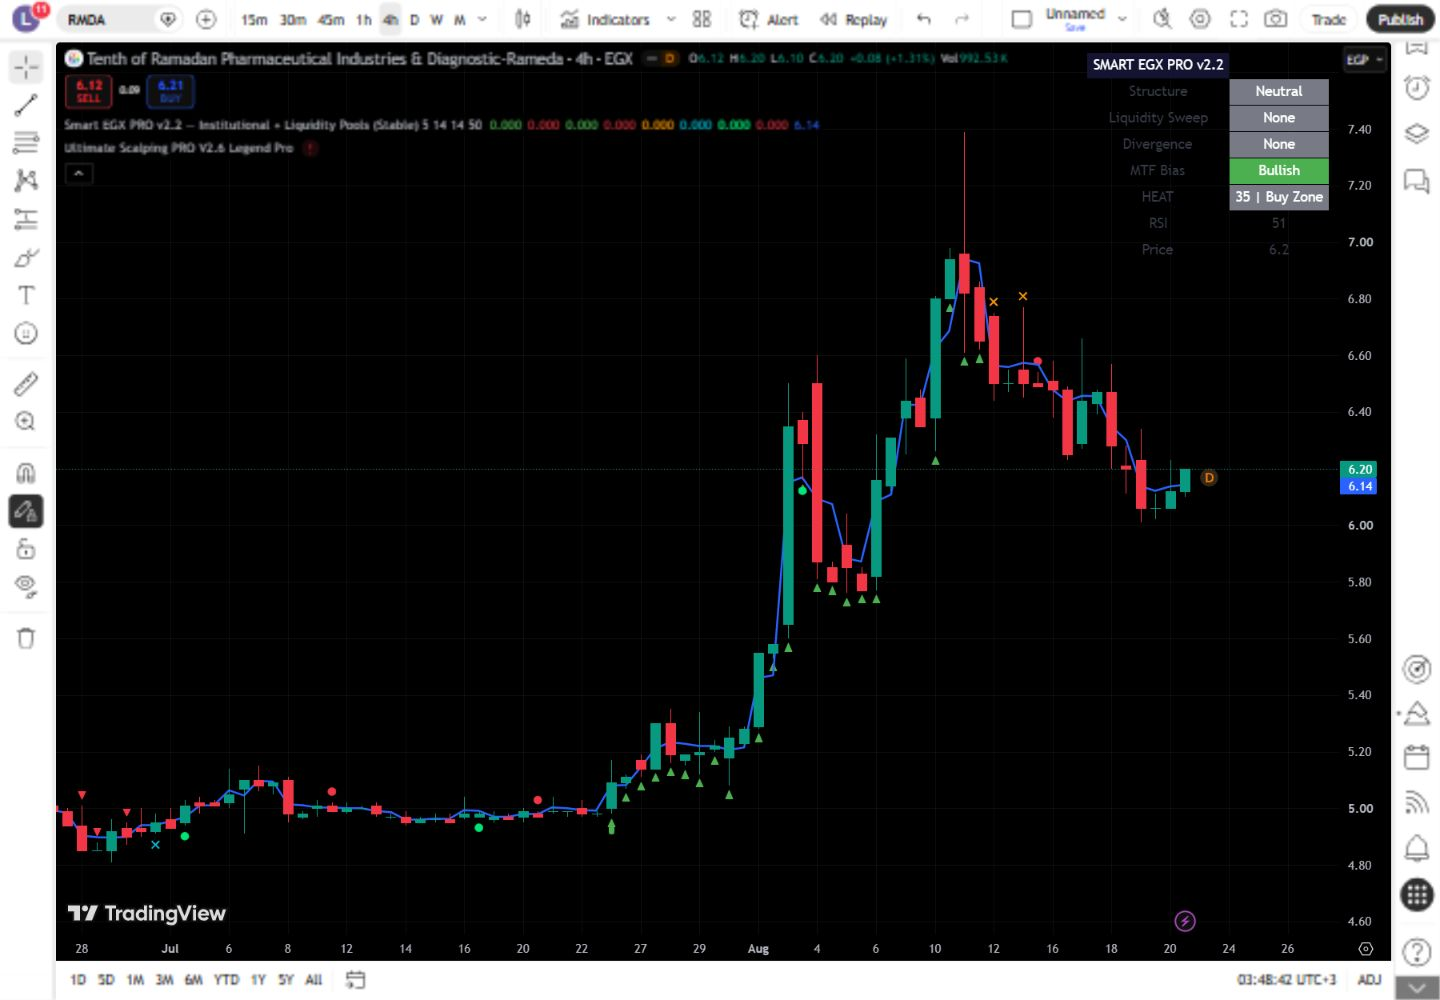
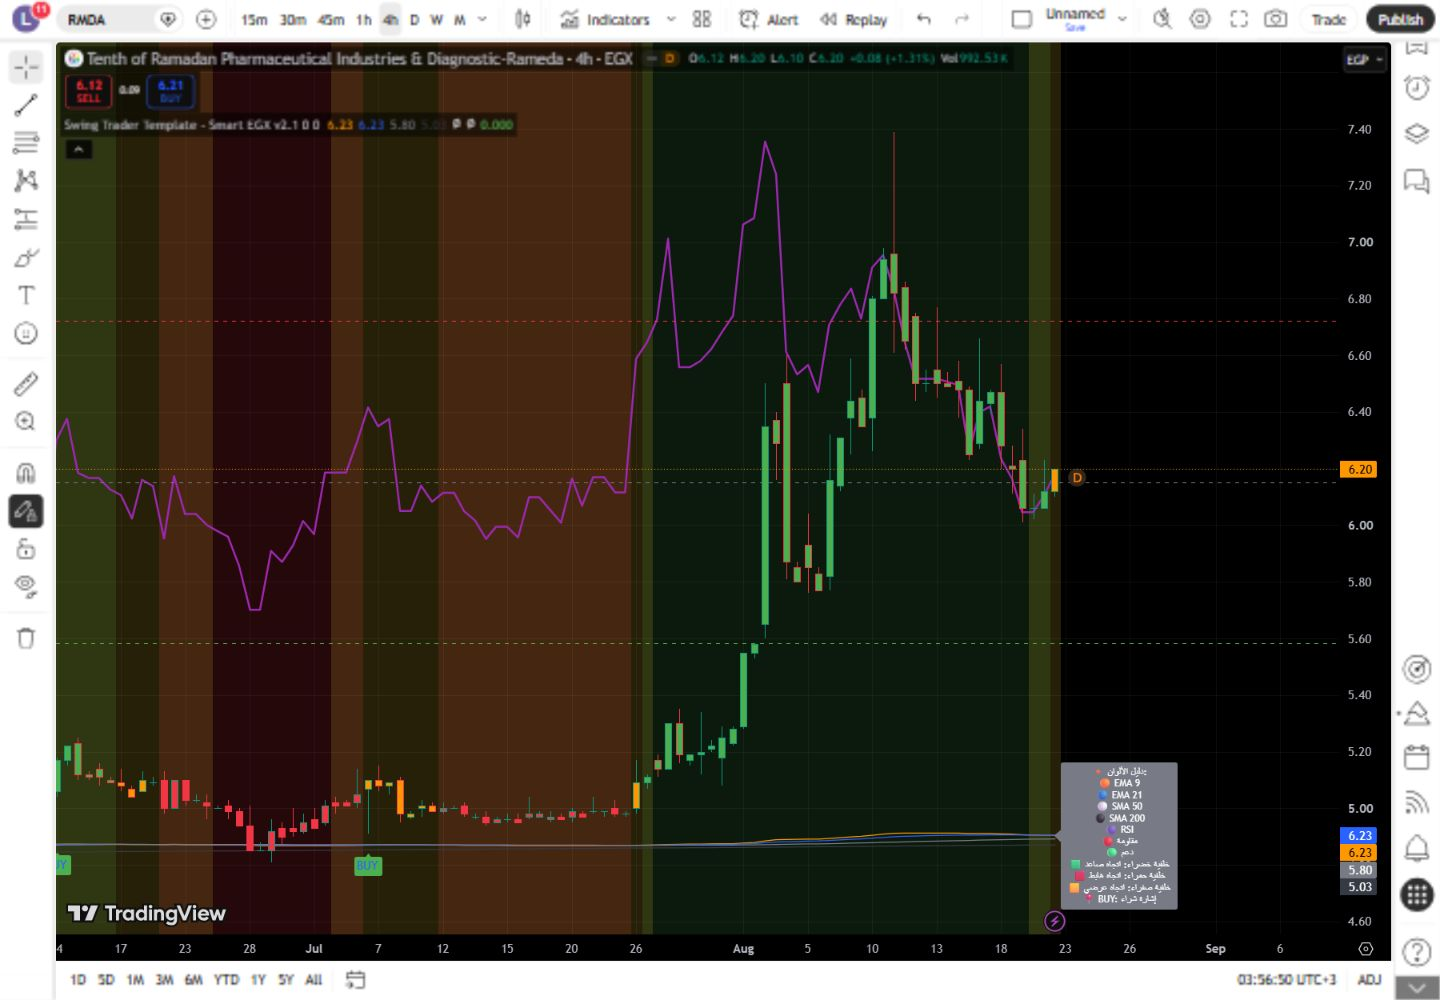
Replace retest evidence with isolated TradingView screenshots

diff --git a/tradingview-export/2026-08-21/indicators/036-smart-investor-pro-all-in-one-v6-1-with-legend.tests/TEST-REPORT.md b/tradingview-export/2026-08-21/indicators/036-smart-investor-pro-all-in-one-v6-1-with-legend.tests/TEST-REPORT.md
@@ -19,11 +19,12 @@
 
 ## منهجية الاختبار
 
-1. نُسخ ملف المصدر المصحح نفسه من المستودع إلى Pine Editor.
-2. حُفظ كنسخة اختبار خاصة، ثم جرى تجميعه وتحديثه على رسم EGX:RMDA.
-3. تأكد ظهور Pine v6 وعدم وجود رسالة خطأ تجميع.
-4. التُقطت صورة الرسم بعد نجاح التحديث.
-5. جرى استبدال كود نسخة الاختبار الخاصة بالملف التالي دون نشر أي سكربت للعامة.
+1. أُزيل المؤشر الافتراضي وأي نسخة اختبار سابقة من الرسم.
+2. نُسخ ملف المصدر المصحح نفسه من المستودع إلى Pine Editor مع الحفاظ على فواصل الأسطر.
+3. حُفظ كنسخة اختبار خاصة، ثم جرى تجميعه وتحديثه منفردًا على رسم EGX:RMDA.
+4. تأكد ظهور Pine v6 وعدم وجود رمز أو رسالة خطأ تجميع.
+5. التُقطت صورة الرسم المعزولة بعد نجاح التحديث.
+6. جرى استبدال كود نسخة الاختبار الخاصة بالملف التالي دون نشر أي سكربت للعامة.
 
 ## الصور
 

diff --git a/tradingview-export/2026-08-21/indicators/045-swing-trader-template-smart-egx-v2-2.tests/TEST-REPORT.md b/tradingview-export/2026-08-21/indicators/045-swing-trader-template-smart-egx-v2-2.tests/TEST-REPORT.md
@@ -19,11 +19,12 @@
 
 ## منهجية الاختبار
 
-1. نُسخ ملف المصدر المصحح نفسه من المستودع إلى Pine Editor.
-2. حُفظ كنسخة اختبار خاصة، ثم جرى تجميعه وتحديثه على رسم EGX:RMDA.
-3. تأكد ظهور Pine v6 وعدم وجود رسالة خطأ تجميع.
-4. التُقطت صورة الرسم بعد نجاح التحديث.
-5. جرى استبدال كود نسخة الاختبار الخاصة بالملف التالي دون نشر أي سكربت للعامة.
+1. أُزيل المؤشر الافتراضي وأي نسخة اختبار سابقة من الرسم.
+2. نُسخ ملف المصدر المصحح نفسه من المستودع إلى Pine Editor مع الحفاظ على فواصل الأسطر.
+3. حُفظ كنسخة اختبار خاصة، ثم جرى تجميعه وتحديثه منفردًا على رسم EGX:RMDA.
+4. تأكد ظهور Pine v6 وعدم وجود رمز أو رسالة خطأ تجميع.
+5. التُقطت صورة الرسم المعزولة بعد نجاح التحديث.
+6. جرى استبدال كود نسخة الاختبار الخاصة بالملف التالي دون نشر أي سكربت للعامة.
 
 ## الصور
 

diff --git a/tradingview-export/2026-08-21/indicators/047-swing-trader-template-smart-egx-v2-4.tests/TEST-REPORT.md b/tradingview-export/2026-08-21/indicators/047-swing-trader-template-smart-egx-v2-4.tests/TEST-REPORT.md
@@ -19,11 +19,12 @@
 
 ## منهجية الاختبار
 
-1. نُسخ ملف المصدر المصحح نفسه من المستودع إلى Pine Editor.
-2. حُفظ كنسخة اختبار خاصة، ثم جرى تجميعه وتحديثه على رسم EGX:RMDA.
-3. تأكد ظهور Pine v6 وعدم وجود رسالة خطأ تجميع.
-4. التُقطت صورة الرسم بعد نجاح التحديث.
-5. جرى استبدال كود نسخة الاختبار الخاصة بالملف التالي دون نشر أي سكربت للعامة.
+1. أُزيل المؤشر الافتراضي وأي نسخة اختبار سابقة من الرسم.
+2. نُسخ ملف المصدر المصحح نفسه من المستودع إلى Pine Editor مع الحفاظ على فواصل الأسطر.
+3. حُفظ كنسخة اختبار خاصة، ثم جرى تجميعه وتحديثه منفردًا على رسم EGX:RMDA.
+4. تأكد ظهور Pine v6 وعدم وجود رمز أو رسالة خطأ تجميع.
+5. التُقطت صورة الرسم المعزولة بعد نجاح التحديث.
+6. جرى استبدال كود نسخة الاختبار الخاصة بالملف التالي دون نشر أي سكربت للعامة.
 
 ## الصور
 

diff --git a/tradingview-export/2026-08-21/indicators/049-swing-trader-template-smart-egx-v2-1-1.tests/TEST-REPORT.md b/tradingview-export/2026-08-21/indicators/049-swing-trader-template-smart-egx-v2-1-1.tests/TEST-REPORT.md
@@ -19,11 +19,12 @@
 
 ## منهجية الاختبار
 
-1. نُسخ ملف المصدر المصحح نفسه من المستودع إلى Pine Editor.
-2. حُفظ كنسخة اختبار خاصة، ثم جرى تجميعه وتحديثه على رسم EGX:RMDA.
-3. تأكد ظهور Pine v6 وعدم وجود رسالة خطأ تجميع.
-4. التُقطت صورة الرسم بعد نجاح التحديث.
-5. جرى استبدال كود نسخة الاختبار الخاصة بالملف التالي دون نشر أي سكربت للعامة.
+1. أُزيل المؤشر الافتراضي وأي نسخة اختبار سابقة من الرسم.
+2. نُسخ ملف المصدر المصحح نفسه من المستودع إلى Pine Editor مع الحفاظ على فواصل الأسطر.
+3. حُفظ كنسخة اختبار خاصة، ثم جرى تجميعه وتحديثه منفردًا على رسم EGX:RMDA.
+4. تأكد ظهور Pine v6 وعدم وجود رمز أو رسالة خطأ تجميع.
+5. التُقطت صورة الرسم المعزولة بعد نجاح التحديث.
+6. جرى استبدال كود نسخة الاختبار الخاصة بالملف التالي دون نشر أي سكربت للعامة.
 
 ## الصور
 

diff --git a/tradingview-export/2026-08-21/indicators/050-swing-trader-template-smart-egx-v2-1-2.tests/TEST-REPORT.md b/tradingview-export/2026-08-21/indicators/050-swing-trader-template-smart-egx-v2-1-2.tests/TEST-REPORT.md
@@ -19,11 +19,12 @@
 
 ## منهجية الاختبار
 
-1. نُسخ ملف المصدر المصحح نفسه من المستودع إلى Pine Editor.
-2. حُفظ كنسخة اختبار خاصة، ثم جرى تجميعه وتحديثه على رسم EGX:RMDA.
-3. تأكد ظهور Pine v6 وعدم وجود رسالة خطأ تجميع.
-4. التُقطت صورة الرسم بعد نجاح التحديث.
-5. جرى استبدال كود نسخة الاختبار الخاصة بالملف التالي دون نشر أي سكربت للعامة.
+1. أُزيل المؤشر الافتراضي وأي نسخة اختبار سابقة من الرسم.
+2. نُسخ ملف المصدر المصحح نفسه من المستودع إلى Pine Editor مع الحفاظ على فواصل الأسطر.
+3. حُفظ كنسخة اختبار خاصة، ثم جرى تجميعه وتحديثه منفردًا على رسم EGX:RMDA.
+4. تأكد ظهور Pine v6 وعدم وجود رمز أو رسالة خطأ تجميع.
+5. التُقطت صورة الرسم المعزولة بعد نجاح التحديث.
+6. جرى استبدال كود نسخة الاختبار الخاصة بالملف التالي دون نشر أي سكربت للعامة.
 
 ## الصور
 
